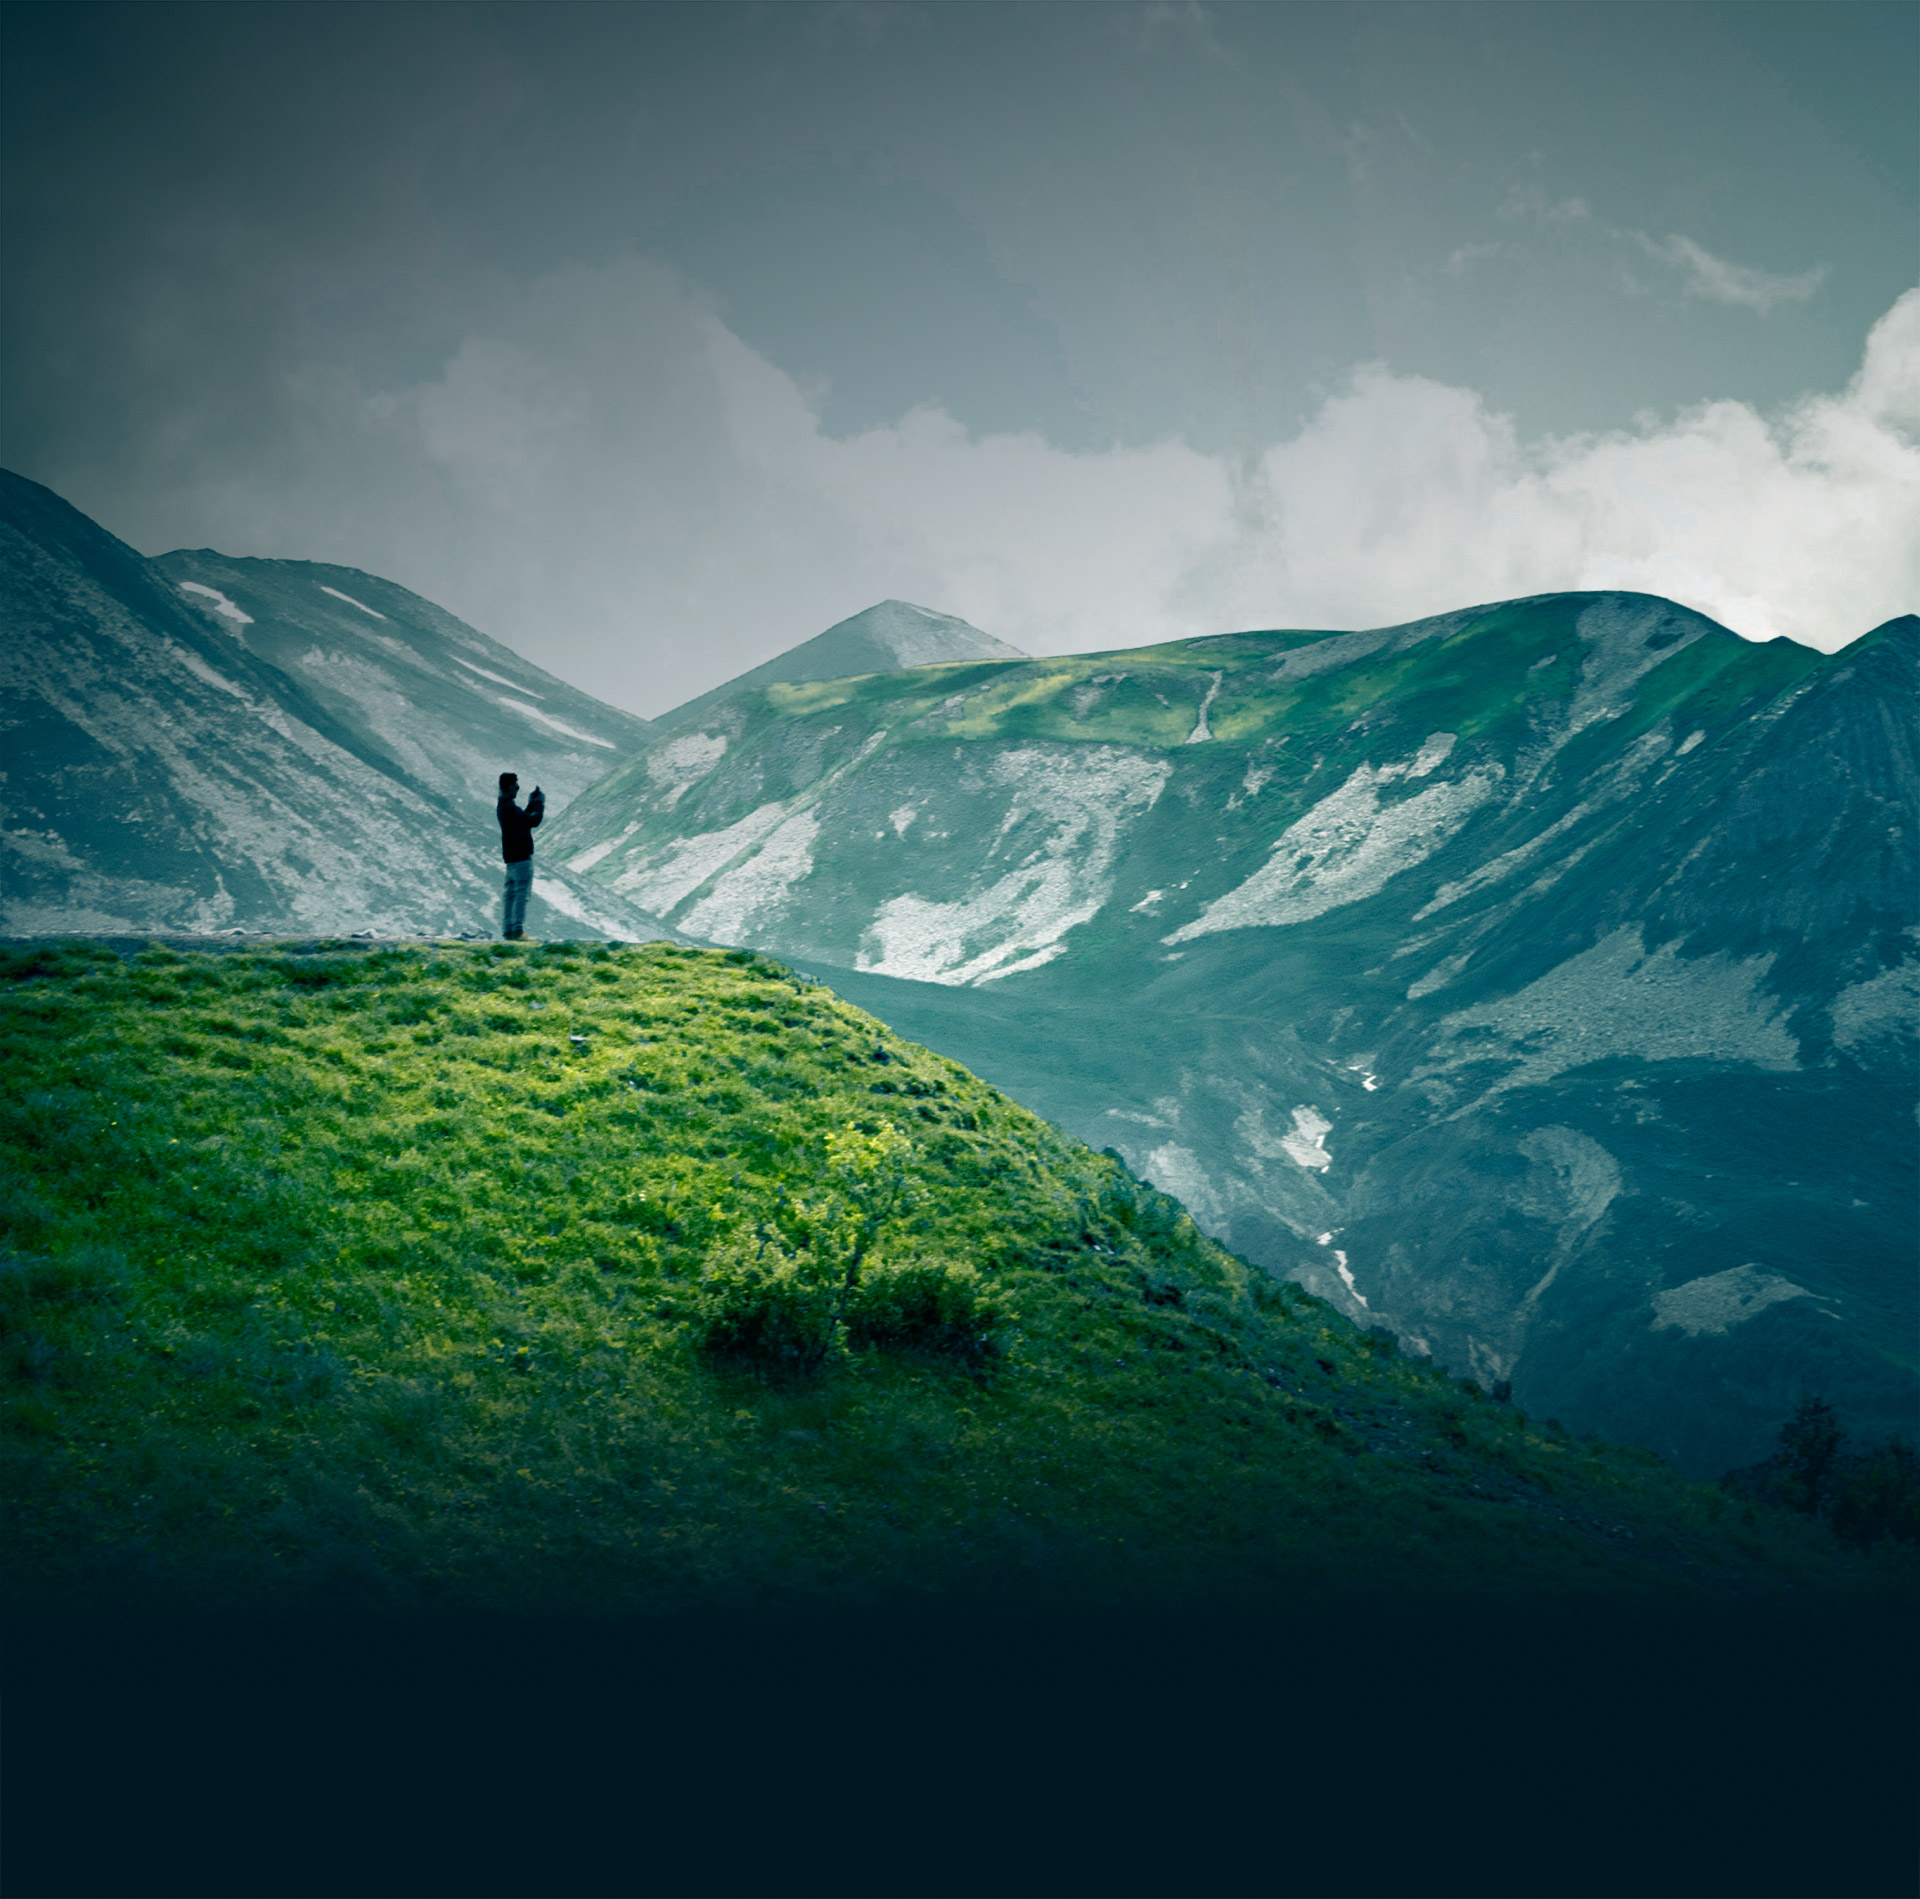
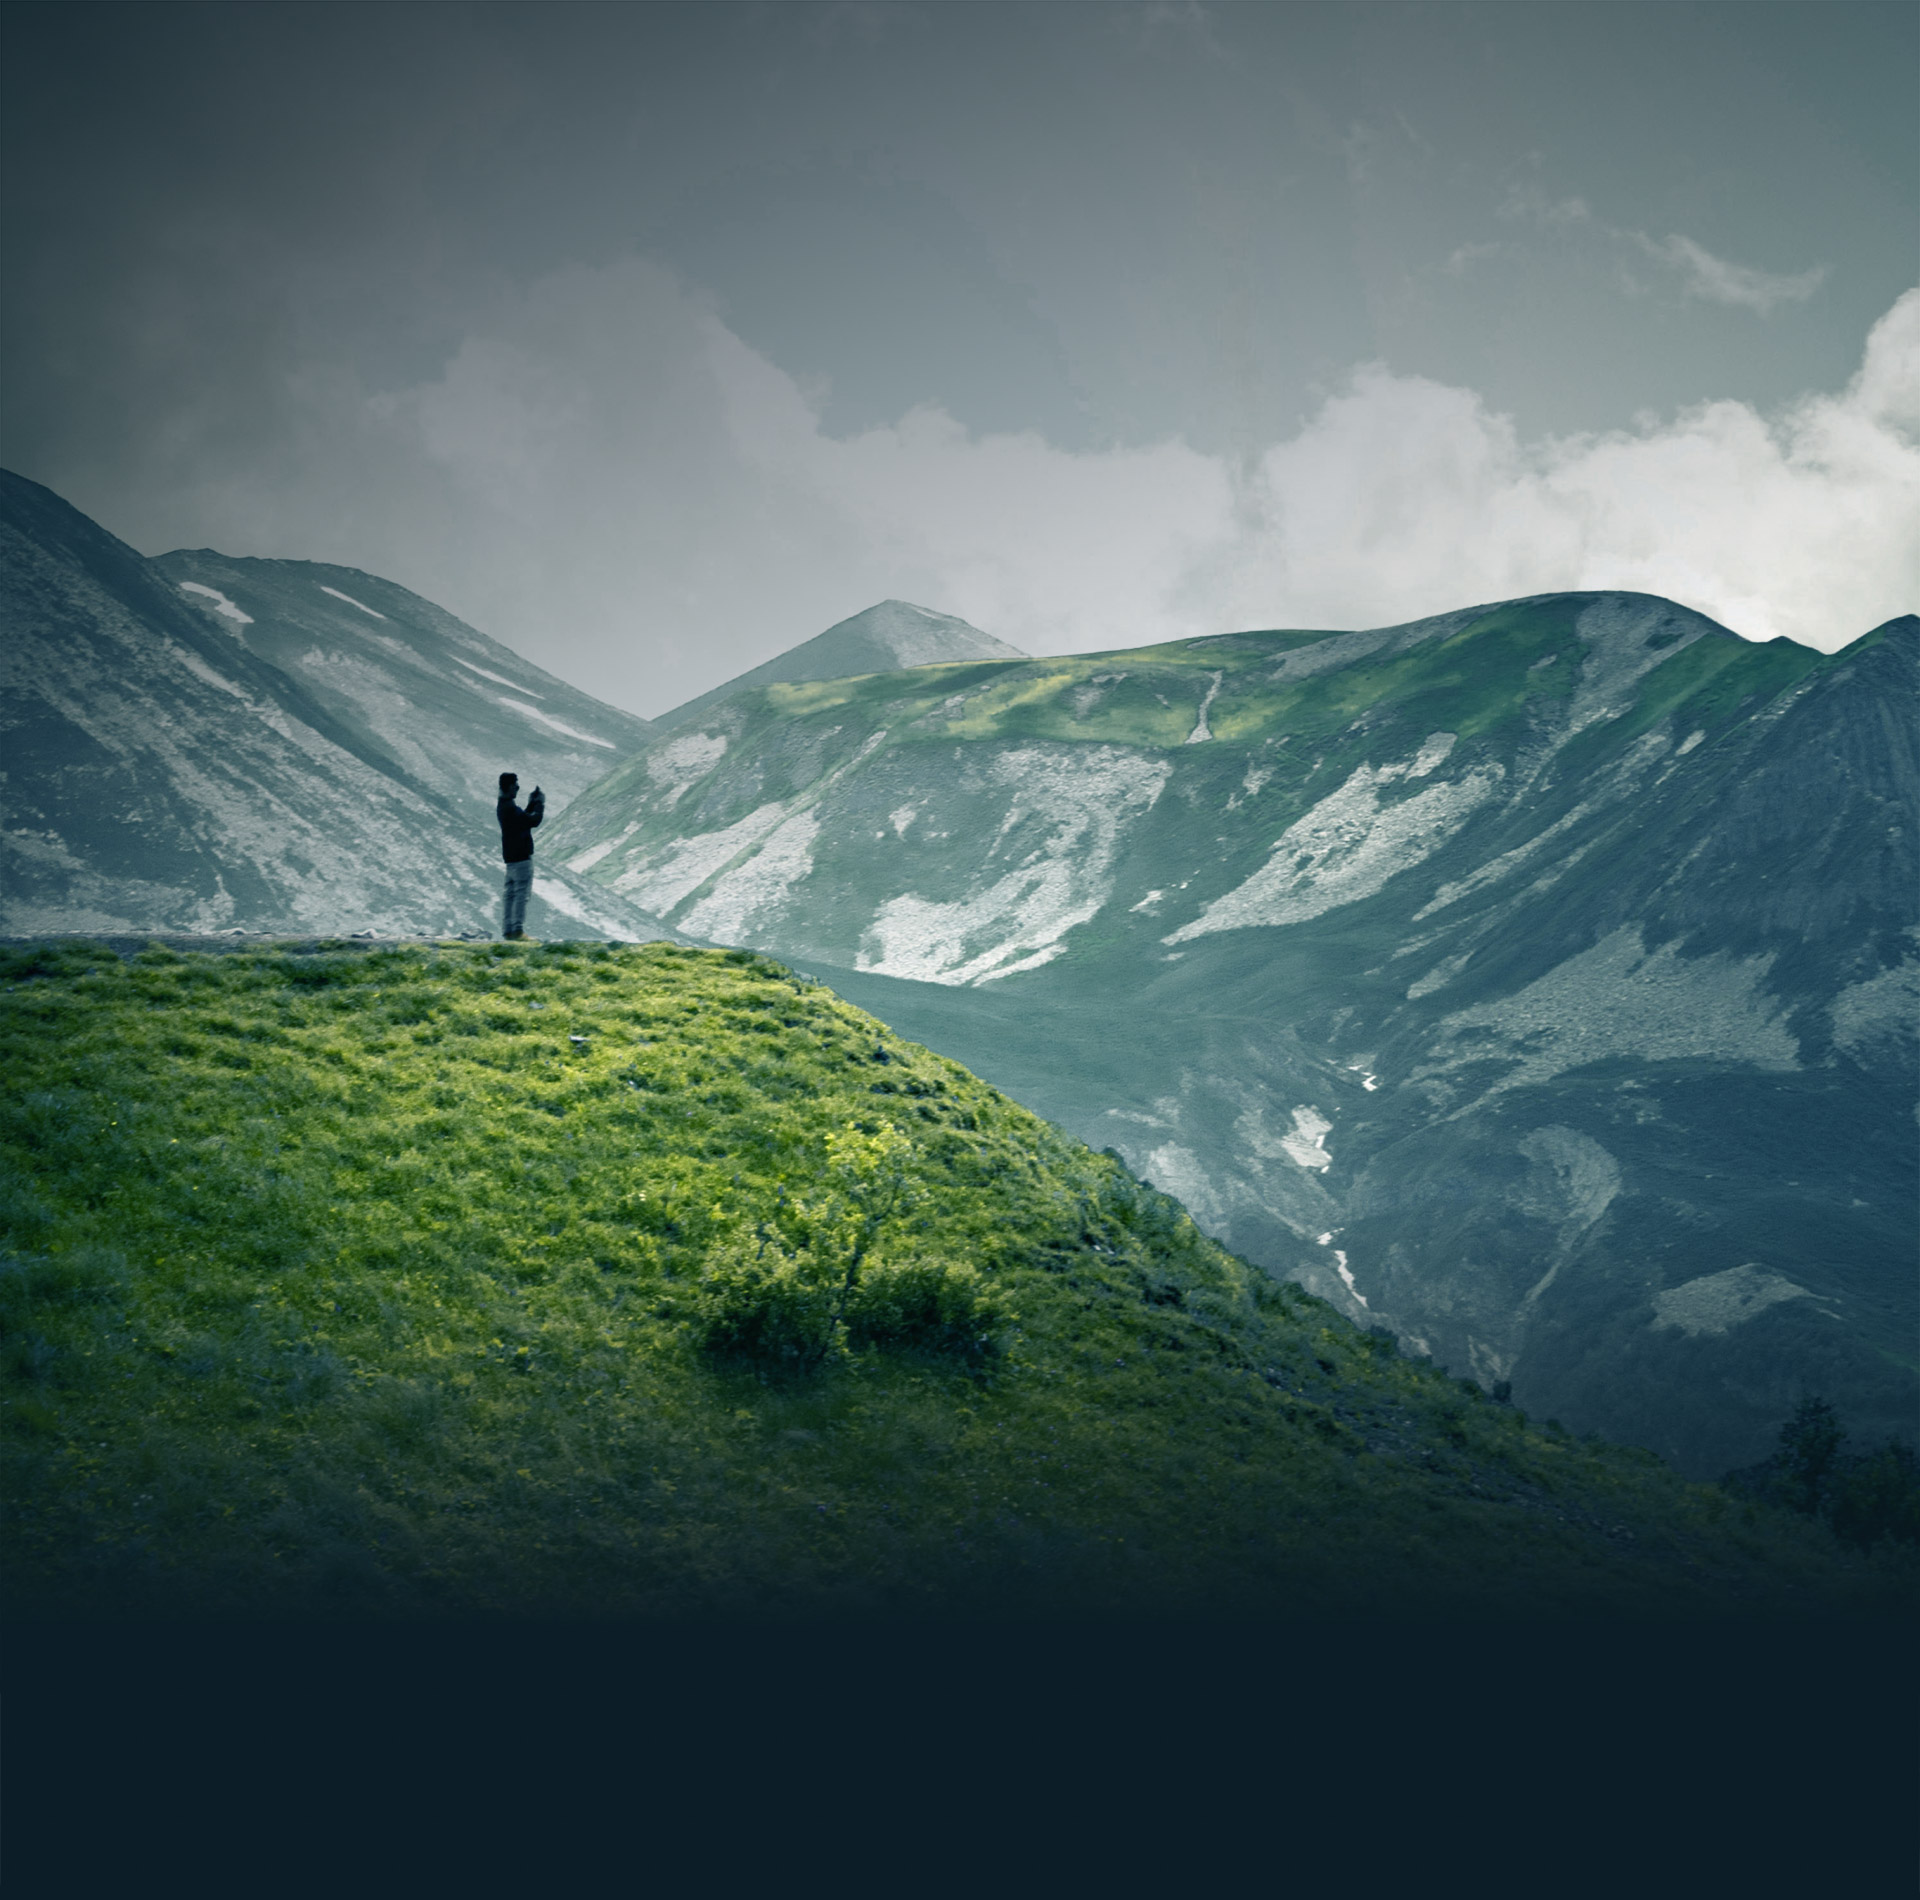
Границы между фоном и картинкой теперь нет

Changed region(s): [[0.0, 0.2486, 1.0, 0.8389], [0.1562, 0.3728, 0.1875, 0.4039]]

diff --git a/src/scss/variables.scss b/src/scss/variables.scss
@@ -1,2 +1,2 @@
 $accent-color: #FBD784;
-$dark-color: #0B1D26;
+$dark-color: #041722;
